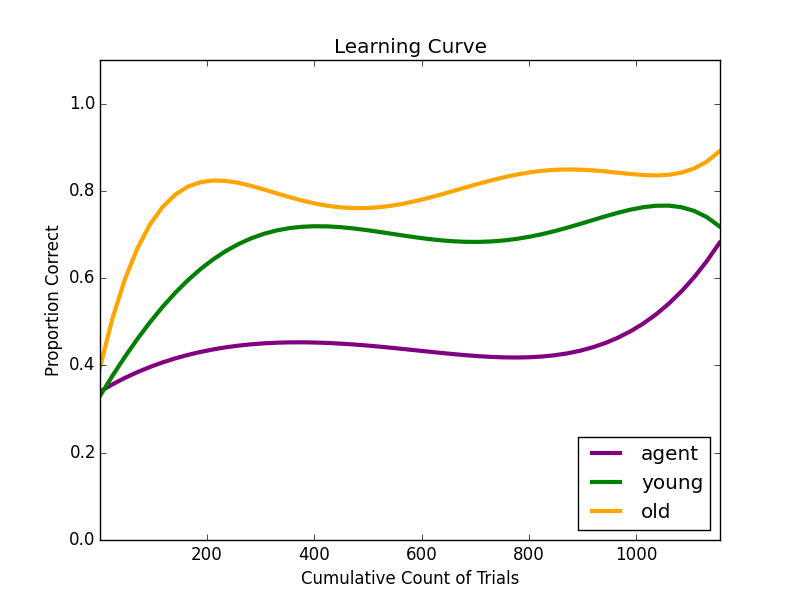
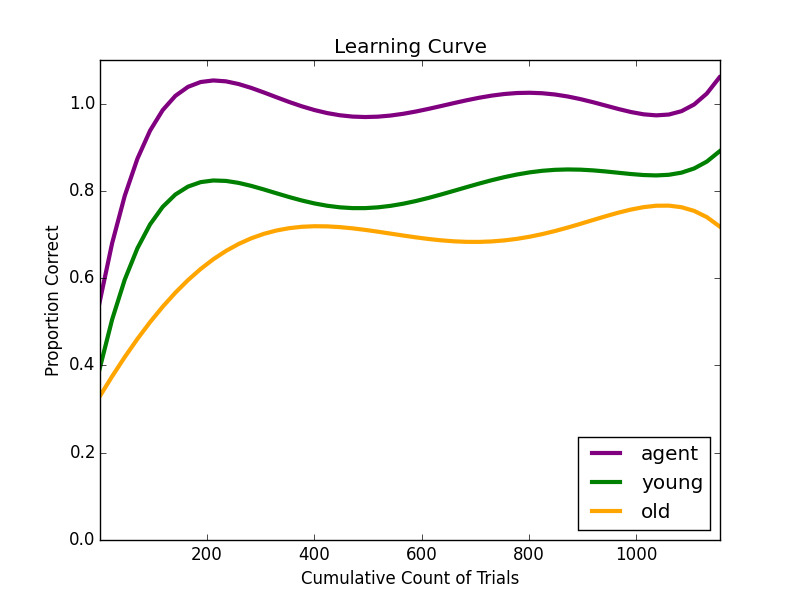
Plotting Better

diff --git a/plotLearning.py b/plotLearning.py
@@ -1,11 +1,8 @@
 import matplotlib.pyplot as plt
-from scipy.interpolate import interp1d
-import scipy
 import numpy as np
-from scipy.optimize import curve_fit
 
 
-def prep_data(movAvg,ratdata=None):
+def prep_data(movAvg):
     """
     Calculates proportions for the trace.
     """
@@ -41,11 +38,11 @@ def func(x, a, b, c):
     return a * np.exp(-b * x) + c
 
 def rat_data():
-    with open('rat10279.txt', 'r') as old:
+    with open('rat10282.txt', 'r') as old:
         lines = old.readlines()
         oldDecisions = [line.split(',') for line in lines][0]
         old = [float(o) for o in oldDecisions]
-    with open('rat10282.txt', 'r') as young:
+    with open('rat10279.txt', 'r') as young:
         lines = young.readlines()
         youngDecisions = [line.split(',') for line in lines][0]
         young = [float(y) for y in youngDecisions]
